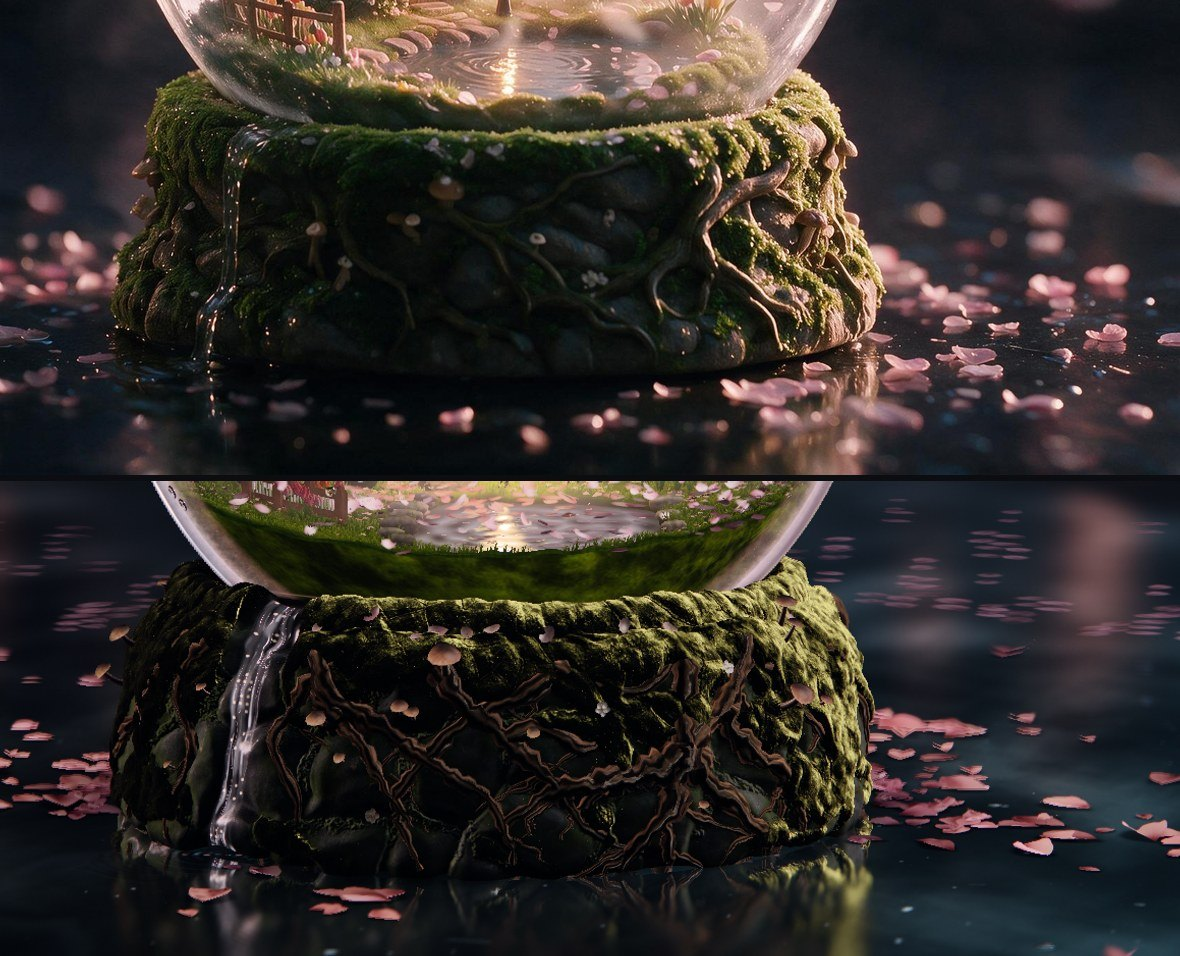
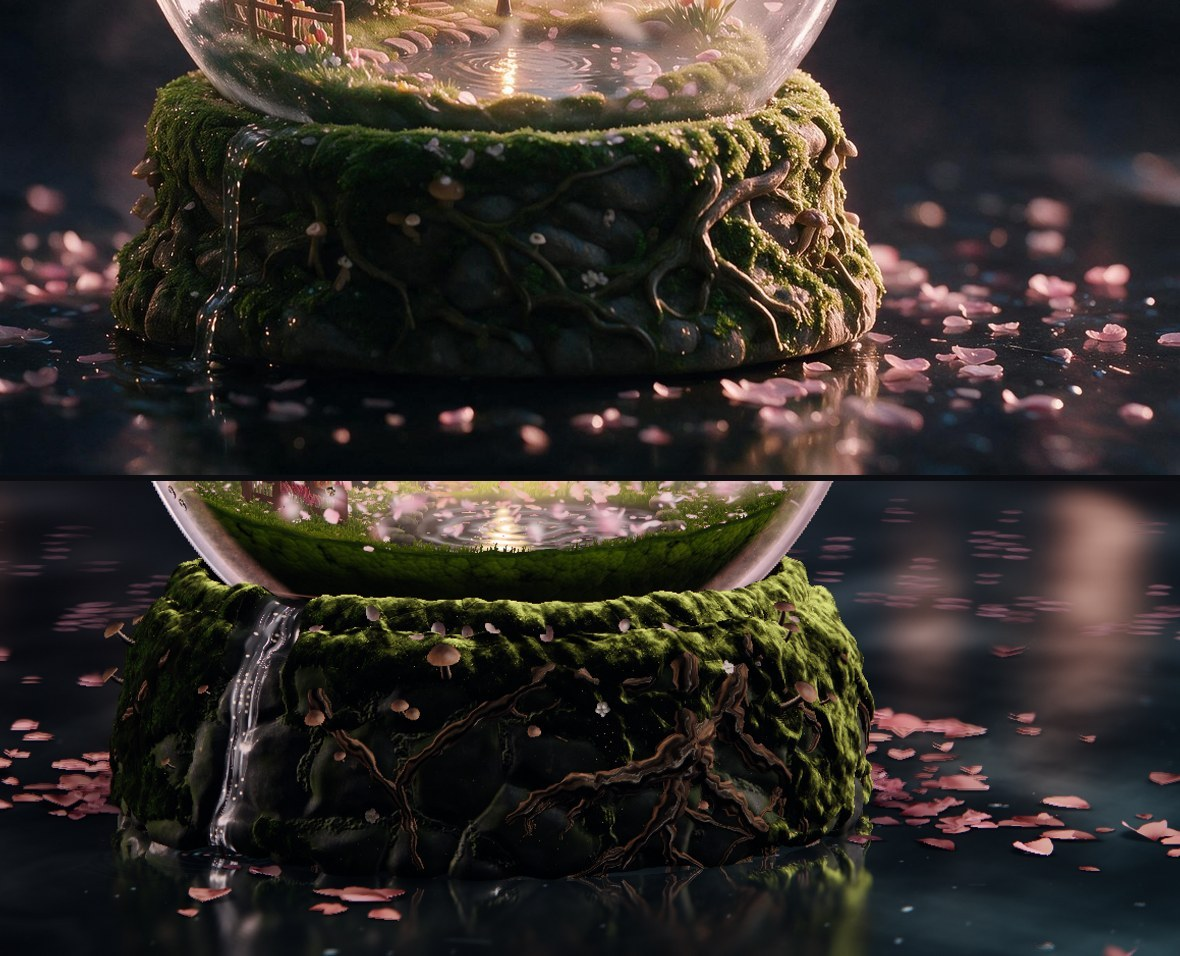
Looks at 05:44: pairs of both bases, both hero frames, REPORT.md and HANDOVER.md
make targets, in order: npm run make -- base-spring, slab-spring, base-summer; then npm run texpack, npm run build.

diff --git a/HANDOVER.md b/HANDOVER.md
@@ -1,0 +1,75 @@
+# Handover: bases and slabs of spring and summer (bases2)
+
+Written for someone who has never seen this work. Work branch `agent/p4-bases2`, looks branch `agent/p4-bases2-looks` (this one). I took over from `spring_base` and `summer_base`; their handovers are still worth reading for the parts I did not touch: `git show origin/agent/p4-spring_base-looks:HANDOVER.md`, `git show origin/agent/p4-summer_base-looks:HANDOVER.md`. Targets: `references/approved/spring-rest.png`, `spring-shake.png`, `summer-rest.png`, `summer-shake.png`. Times below are UTC on 2026-11-25.
+
+## Files (mine; nothing else touched)
+
+- `assets-src/base-spring/layout.mjs`: every measured number of spring's base (profile, cobbles, moss `PATCHES`, the trickle, `ROOTS`, mushrooms, flowers). I added three moss patches left of the fall and took six long diagonal roots out of `ROOTS`.
+- `assets-src/base-spring/build.mjs`: makes `base-spring.glb` (meshes `rock`, `growth`, `water`), the relief and cover maps, the tiling sheets. Roots are thicker, tapered, sunk into the rock, with bark ridges; the fall has several strands; `THIN` holds the triangle cuts.
+- `assets-src/base-spring/thin.mjs` (new, mine): `thin(mesh, {share, error})` edge-collapse thinning and `lighter(file, levels)` for the medium and low lists. Summer's base build imports it too.
+- `assets-src/base-spring/RECIPE.md`, `assets-src/slab-spring/RECIPE.md`, `assets-src/base-summer/RECIPE.md`: recipes; no new generated picture in my time.
+- `assets-src/slab-spring/build.mjs`: the petal sheets of the slab (smaller, more varied petals).
+- `assets-src/base-summer/build.mjs`, `maps.mjs`, `mesh.mjs`, `profile.mjs`: summer's base (stone, shells, sea glass, ledge sand) and its four maps; `THIN` in `build.mjs`.
+- `src/seasons/spring/base.ts`: materials of rock, growth (moss, roots, mushrooms) and water.
+- `src/seasons/spring/slab.ts`: the petals on the slab: soft window when out of focus (no rectangles), a contact shadow under each, sizes and tints varied.
+- `src/seasons/summer/base.ts`: materials of stone, shells, sea glass and sand (`sandMaterial` is also used by the slab).
+- `src/seasons/summer/slab.ts`: the sand on the table (`HEAP`, `SLAB`, `sandHeight`, `heapGeometry`).
+- Not mine any more: both `arrival.ts` files (`change_builder`).
+
+## Make targets, in this order
+
+1. `npm run make -- base-spring` (about 73 s)
+2. `npm run make -- slab-spring` (about 3 s)
+3. `npm run make -- base-summer` (about 26 s)
+4. `npm run texpack`, then `npm run build`
+
+There is no `slab-summer` folder: summer's sand on the table is made in code. `main` tracks built files under `assets-full/` and `public/assets/`: before every merge of main run `git checkout -- assets-full public/assets`, merge, then the four steps above. Never commit anything under those two folders; commit by naming paths.
+
+## What is still wrong, worst first
+
+Summer (pictures `02-summer-base-pair.jpg`, `04-summer-hero.jpg`)
+
+1. The base is a plain drum with shallow bed creases that read as seams or folded cloth; the approved base has a deep wind-carved collar, a bulging belly and a pale sunlit upper band. This is the "clay, sculpted look" of R2 and R3-1 #9. It is the profile and carve map (`profile.mjs`, `maps.mjs`), not the shader; I only retuned grain and light.
+2. The dune on the right is even and matt. Since `change_builder`'s d09daec (in main from 05:10) no loose grains are drawn at rest, so the sparkle that the stills up to `su-w` showed on the dune is gone in the judged build; the dune now rests on `sandMaterial` alone: median 159,134,96 against the approved 217,180,145 on its flank and 114,90,60 against 227,191,155 on its crest (measured on `su-x`, 05:29). Raise `SAND.glint` and the side light in `SAND_AFTER`; not done, no time to see it.
+3. The sand's edge on the table is a hard outline (dark rim against the wet table at the front right), R3-1 #10. The solid threshold in `sandMaterial` is lower than I computed: two tries at a thicker left sheet (`HEAP.sheet.mm` 0.22, a plateau of 0.225) turned it into a hard-edged island and were reverted.
+4. Too little sand left of the base: the approved has a broad thin band of fine grains there; the build has a thin field (`HEAP.sheet` mm 0.19).
+5. Right flank of the base still under the approved after the rig moved (142 to 148 against 161 to 182 in red, grid column 7); lower right 107 against 160. Left limb too bright (150 to 164 against 105 to 115, column 0).
+6. Shells darker and browner than approved on the right and centre (scallop 70,61,51 against 82,78,79; cowrie 75,63,54 against 89,85,76); inlays smaller than the approved's; sea glass is cloudy and pitted now but not see-through with coloured light behind it.
+7. Glass seat (R3-2 #3, #5): only an ambient-occlusion band; there is no inset lip in the mesh. The dark wedge on the upper band is a real cast shadow under the lip; I left it.
+8. R4 #5 (rigid cast with a notch when the base lifts): the heap now runs on under the foot at an angle of repose (`SLAB.repose`, `under()` in `heapGeometry`). NOT SEEN with the base lifted: `npm run still` has no shake state. It is static geometry: nothing slumps over time.
+
+Spring (pictures `01-spring-base-pair.jpg`, `03-spring-hero.jpg`)
+
+1. Moss levels against the approved (fit `sp-o`, 04:59): middle band too bright (30,30,11 against 12,18,12), crest too dim (30,30,12 against 58,58,37), right flank too dim (71,66,34 against 118,87,56), left of the fall too dark (9,11,6 against 29,27,15). The cushion folds read as cloth.
+2. Roots: thicker, tapered and with bark now, six fewer, but they still lie on the rock more than grow out of it; the junction at the right is a tangle.
+3. Waterfall: strands with white edges, but still reads as plastic; no spray at the foot.
+4. Mushrooms: flat caps without gills.
+5. No caustic or seat where the glass meets the moss (R3-2 #5): only a contact darkening in `ROCK_PAINT`.
+6. Cyan-white dots on the water (R3-2 #14) are not in my files: in the `ids` view they carry the shared `surface` part's colour (hd pixels 528,512; 1824,616; 1512,792), told to `/root` at 04:30.
+7. The green band inside the glass above the collar is the miniature's ground (`spring_mini2`).
+
+## Numbers that worked
+
+- Spring moss (`src/seasons/spring/base.ts`): body `mix(vec3(0.12,0.2,0.08), vec3(0.36,0.56,0.12), …)`, tip `vec3(0.6,0.68,0.2)`, `liveTuft = smoothstep(0.55,0.85,…)`, tip factor `(1.6 + 18.0*liveTuft + 2.0*liveFuzz)`, tip gate `smoothstep(0.02,0.4, liveRimM + 0.6*liveUpM*liveHigh)`, `liveHigh = smoothstep(24,33,y)`, `liveShade` floor 0.17, left kick `2.6*(1+2.5*baseMoss)*liveKick²*baseAo`. Spring's key comes from the front right above, so shade on the front must come from the shader.
+- Summer stone (`STONE`): sun 0.6, kick 0.15, flare 1.3, side 1.9 on `pow(stoneWarm, 18)` (the sun's side light on the right flank; at power 4 it flooded the whole front), direct diffuse times 0.6, indirect `0.19*vec3(0.8,0.96,1.14)`. Summer's key is behind and to the right (`[250,230,-400]`), so the front gets no direct key.
+- Summer shells: direct diffuse `mix(1, ao, 0.5) * 0.95 * vec3(0.9,0.98,1.1)`, side `baseSunC*0.5*pow(shellWarm,14)`.
+- Summer sand: side light `baseSunC*14*sandWarm³` (times 0.35 on the ledge above 24 mm).
+- Summer slab: `HEAP` dune {67,2,15,19,12.5}, skirt {71,30,10,20,2.2}, shoulder {47,58,21,14,2.4}, fan {50,98,23,44,1.5}, sheet {-96,-18,36,24,0.19}, stray {56,66,26,52,0.2}, ring {r 61.5, w 4.5, mm 0.55}; `SLAB { liftMm 0.5, footMm 54, repose 0.62, stepMm 1.3 }`.
+- Thinning: spring `THIN = { rock {0.74, 0.06}, growth {0.74, 0.06}, medium error 0.18, low 0.3 }`; summer `THIN = { stone {0.68,0.06}, shells {0.72,0.05}, sand {0.66,0.08}, medium 0.09, low 0.22 }`.
+
+## How I measured (do the same; the eye misjudges brightness here)
+
+- `npm run fit -- --season <s> --tier draft --format hd --box <box> --name <n> --wide <w> --force`: spring box `700,900,2400,1584` wide 1180; summer box `300,900,2400,1584` wide 1200. Writes `out/work/fit/<n>-pair.jpg` (approved above, build below) and the still `out/work/stills/<s>-rest-hero-hd-draft-rig.png`.
+- Medians of boxes in approved pixels (2816 x 1584, about 9.17 px per mm, axis x 1408). Spring boxes: mossTop 1050,1050,1850,1110; mossMid 1250,1120,1700,1170; stones 1150,1270,1750,1400; mossR 1800,1060,1930,1250; left 900,1100,1010,1300. Summer: an 8 by 6 grid over 880,1040,1960,1420, and scallopR 1640,1215,1720,1290; cowrie 1420,1270,1480,1315; greenG 1205,1215,1265,1270; duneR 1950,1330,2200,1420; duneTop 1930,1280,2050,1330.
+- Box medians mislead on hue when petals or highlights lie in the box: check a zoomed crop too.
+
+## Tried and did not help
+
+- Summer: a thicker left sand sheet (twice): hard-edged island. Editing `baseSunC` in the `STAGE_LIGHT_DONE` branch of `KEY`: that branch is not active at draft, no effect. The side light at power 4 on the stone: the whole front went to 165 to 200 against 50 to 66.
+- Spring: lifting the moss by raising its indirect light: flat felt; the tips only read when gated by the light from behind.
+
+## What I could not see
+
+- Any shake state (no still state for it): the summer heap under the lifted base, the petals' jump.
+- Final tier; every look was draft hd.
+- The surface, base, macro and interior cameras after 04:00, except through `npm run measure`.

diff --git a/REPORT.md b/REPORT.md
@@ -1,0 +1,65 @@
+# Report: bases and slabs of spring and summer (bases2)
+
+Times are UTC on 2026-11-25. Work branch `agent/p4-bases2`, last commit 51df97e (merge of main over 777bfbf "Summer slab sand on a 1.3 mm grid"), pushed 05:32. In the freeze of 05:20: cfa100f. Looks branch `agent/p4-bases2-looks`.
+
+## Stand-ins and fallbacks left
+
+None. No placeholder ships, no threshold lowered, no test changed. No generated picture was made in my time (the three base sheets and the petal sheet are my predecessors', one take each).
+
+## What I built (by issue)
+
+Spring
+- R3-2 #2 (severe, surface camera: out-of-focus petals as translucent rectangles): petals fade through a soft window; seen at the surface camera 03:42. Fixed.
+- R3-2 #12, #13 (petals pasted on, all the same): a contact shadow under each, smaller and varied sizes and tints. Seen 03:42. Partly: they still lie flat.
+- R3-2 #11, R2 (roots as smooth tubes): thicker at the collar, tapered, sunk into the rock, bark ridges, six sides where thin, six long roots removed. Partly: they still lie on the rock.
+- R3-2 #9, R2 (procedural moss): clumps, deep green body with bright tips only where the light from behind reaches, three patches left of the fall. Partly: levels off (see below), folds read as cloth.
+- R3-2 #10, R2 (ribbon waterfall): several white strands over a wider wet bed. Partly: still plastic, no spray.
+- R3-2 #5 (glass meets moss on a hard line): contact darkening where the glass sits and where the stone meets the table. Partly: no seat, no caustic.
+- R3-2 #14: not mine (shared surface part), told to `/root` 04:30.
+
+Summer
+- R1 #3 (severe: brown ramp at the right, flat sheet over the right third of the table): dune made compact with a lit crest, less sand on the table, the left sheet thinned to grains. Partly: hard outline at the table.
+- R3-1 #9, R3-2 #6, R2 (clay base, candy sea glass, sticker shells): greyer sandstone with grain; sea glass cloudy, pitted, no centred highlight, light through the thin edge; seat and foot shadows. Partly: the drum shape and its creases are untouched; shells brown and dark.
+- R3-2 #3, #5: ambient-occlusion band at the seat and the foot only.
+- R4 #5: the heap runs on under the foot at an angle of repose (filled footprint). Not seen with the base lifted.
+- After the rig moved (05:10 merge): stone, shells and sand refitted (side light from the sun on the right).
+
+G15: both bases thinned (`thin.mjs`), own medium and low lists; summer slab sand 75,670 to 31,010 triangles.
+
+## Measured numbers
+
+Triangles drawn (tris.mjs), high / medium / low, limits 1,800,000 / 1,100,000 / 600,000:
+- summer on 51df97e (05:34): 1,774,288 / 1,014,375 / 543,258. All green.
+- spring on 51df97e (05:43), the same as on cfa100f (05:14): 1,740,075 / 1,268,431 / 647,361. High green; medium 168,431 over, low 47,361 over. My spring base is 115,591 / 60,975 / 40,894 in the three lists, so the medium and low overage is not in my files alone; the largest spring meshes at high are 204,000, 163,360, 136,381 and 85,591, none of them mine.
+- My files at high: spring rock 82,316, growth 30,619, water 2,656, slab petals 12,600 + 600; summer stone 118,416, shells 37,197, sea glass 19,200, ledge sand 24,848, slab sand 31,010.
+- Against fe1072c (spring base 157,056; summer base 282,656 + slab 75,670): spring base 115,591 = 0.74; summer base and slab 230,671 = 0.64.
+
+Spring, hero rest, medians approved against build (fit sp-o, 04:59): mossTop 58,58,37 / 30,30,12 (p85 151 / 130); mossMid 12,18,12 / 30,30,11; mossR 118,87,56 / 71,66,34; left 29,27,15 / 9,11,6; stones 12 / 10; lowL 15 / 18.
+
+Summer, hero rest, red medians approved > build over the base, 8 columns from x 880 to 1960 (fit su-w, 05:09):
+- y1103: 108>126, 115>106, 94>69, 60>50, 55>39, 67>64, 87>121, 161>147
+- y1166: 115>150, 126>128, 77>92, 56>68, 50>47, 66>55, 95>106, 181>137
+- y1230: 105>164, 144>146, 50>83, 43>47, 54>47, 55>48, 87>73, 182>148
+- y1293: 94>159, 152>149, 83>112, 42>45, 49>30, 49>39, 77>62, 160>107
+- scallopR 82,78,79 > 70,61,51; cowrie 89,85,76 > 75,63,54; scallopL 132,105,83 > 130,104,71; green glass 33,56,40 > 31,55,30 (04:58).
+- dune after the loose grains left main (su-x, 05:29): flank 217,180,145 > 159,134,96; crest 227,191,155 > 114,90,60.
+
+## Tests and what they printed
+
+- `npx tsc --noEmit`: nothing (clean), on 51df97e.
+- `npx vitest run`: Test Files 32 passed | 1 skipped (33); Tests 432 passed | 4 skipped (436), on 51df97e.
+- `npm run determinism` (on cfa100f, 05:20): `determinism: pass · 3 pictures, 4 page loads, preview, draft, 347 s`. Not run again after the 1.3 mm grid.
+- `npm run measure -- --unit spring --only M1,M2,M3 --tier draft` (on cfa100f, 05:27): `measure spring: not complete · 13 of 19 lines, 5 red`. Red: M2 spring-rest 0.0504, spring-shake 0.0557, spring-settled 0.0508 (limit 0.03); M1 spring-interior (the miniature touches the edge of the frame); M1 spring-base 3 invalid values. Pass: M3 spring-rest 0.7977 (base 0.877, miniature 0.798), M2 spring-base 0.006, M2 spring-surface 0.0257. I did not find out which part's pixels are soft in M2 at the hero.
+- `npm run measure -- --unit summer --only M1,M2,M3 --tier draft` (on 51df97e, 05:41): `measure summer: not complete · 13 of 19 lines, 0 red`. M3 summer-rest 0.8291 (base 2.127, miniature 0.829); every M2 0.
+
+## Looks used
+
+Summer 28 (hero stills 2, ids 1, fits su-a to su-x 24, 1 zoom set from existing stills); spring 17 (hero 1, surface 1, fits sp-a to sp-o 15). All draft hd, each beside the approved crop. Also 3 M1 sanity renders, 5 tris runs, 1 determinism run, 2 measure runs.
+
+## Rows for ASSETS.md
+
+None new: no picture was generated. The existing rows of `base-spring` (moss, stone, bark, one take each) and `slab-spring` (petals, one take) stand.
+
+## Handover
+
+See `HANDOVER.md` beside this file: files, make targets, what is open worst first, numbers that worked, what was tried, what I could not see.
